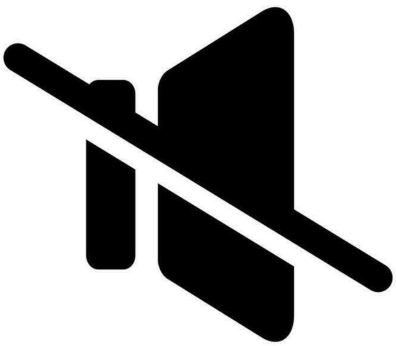
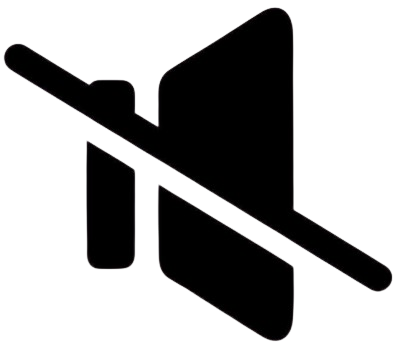
настроен дизайн спидометра

diff --git a/myWay.html b/myWay.html
@@ -30,6 +30,7 @@
         .driveInfo {
             height: calc(40% - 10px);
             background: whitesmoke;
+             position: relative;
             display: flex;
             justify-content: center;
         }
@@ -53,14 +54,12 @@
             box-shadow: 0 2px 10px rgba(0, 0, 0, 0.2);
 
         }
-
-        
     </style>
     <link rel="stylesheet" href="https://unpkg.com/leaflet/dist/leaflet.css">
     <script src="speedometer.js"></script>
 </head>
 
-<body onload='draw(0)' style="margin: 0; padding: 0;" >
+<body onload='draw(0)' style="margin: 0; padding: 0;">
     <div class="map">
         <div id="map"></div>
         <div id="info">
@@ -69,22 +68,24 @@
                     <p>Широта: <span id="latitude"></span></p>
                     <p>Долгота: <span id="longitude"></span></p>
                 </div>
-                <div width="40%">
+                <div width="40%" id ="drive-on-side" style ="visibility: hidden">
                     <img id="drive-on-side-image" src="" alt="Drive on side" style="width: 70px; height: 50px;">
                 </div>
             </div>
-            <p>Название дороги: <span id="road-name-info"></span></p>
+            <p id="road-name" style ="visibility: hidden">Название дороги: <span id="road-name-info"></span></p>
 
-            <p>Класс дороги: <span id="road-class-info"></span></p>
+            <p id = "road-class" style ="visibility: hidden">Класс дороги: <span id="road-class-info"></span></p>
         </div>
     </div>
 
     <div id="divider"></div>
 
     <div class="driveInfo">
-        
-        <canvas id="tutorial" width="440" height="400"></canvas>
-        <button style="border: none; outline: none; background: none;  position: flex; width: 50px; height: 50px;" onclick="editAudio()"><img src="img_velosity/audioOff.png" alt="Edit Audio" id="audio-button" style="width: 130%; height: 100%;"></button>
+
+        <canvas id="tutorial" width="440%" height="400%"></canvas>
+        <button style="border: none; outline: none; background: none; z-index: 10; position: absolute; width: 50px; height: 50px;top: 20px; right: 20px;"
+            onclick="editAudio()"><img src="img_velosity/audioOff.png" alt="Edit Audio" id="audio-button"
+                style="width: 130%; height: 100%;"></button>
 
     </div>
 
@@ -172,8 +173,15 @@
                 latitude = position.coords.latitude;
                 longitude = position.coords.longitude;
 
-                velocity = position.coords.speed;
-                draw(velocity, maxspeed);
+                //velocity = position.coords.speed;
+                //draw(velocity, maxspeed);
+
+                const newPoint = {
+                    latitude: latitude,
+                    longitude: longitude,
+                    time: Date.now()
+                };
+
 
                 direction = position.coords.heading;
                 console.log(`Latitude: ${latitude}, Longitude: ${longitude}, Velocity: ${velocity}, Direction: ${direction}`);
@@ -185,18 +193,23 @@
                 console.log(forLastPosition.length);
 
                 if (forLastPosition.length < 4) {
-                    forLastPosition.push({ latitude, longitude });
+                    forLastPosition.push(newPoint);
                     if (forLastPosition.length === 4) {
                         console.log("4 positions collected, starting action...");
                         startAction();
+                    }
+                    if (forLastPosition.length >= 2) {
+                        console.log("2 positions collected, starting show velocityD...");
+                        getMyVelosity();
                     }
                 }
                 else {
 
                     forLastPosition.shift();
-                    forLastPosition.push({ latitude, longitude });
+                    forLastPosition.push(newPoint);
 
                 }
+
 
             },
             (error) => {
@@ -219,6 +232,39 @@
         marker.setLatLng([lat, lon]);
 
     });
+
+
+    function getMyVelosity() {
+        let lat1 = forLastPosition[forLastPosition.length - 2].latitude;
+        let lon1 = forLastPosition[forLastPosition.length - 2].longitude;
+        let lat2 = forLastPosition[forLastPosition.length - 1].latitude;
+        let lon2 = forLastPosition[forLastPosition.length - 1].longitude;
+
+        let distance = getDistanceFromLatLonInMeters(lat1, lon1, lat2, lon2);
+        let timeDiff = (forLastPosition[forLastPosition.length - 1].time - forLastPosition[forLastPosition.length - 2].time) / 1000; // in seconds
+
+        velocity = distance / timeDiff; //  m/s
+        velocity = velocity * 3.6; // km/h
+        console.log(`v=${velocity}`);
+        draw(velocity, maxspeed);
+    }
+
+    function getDistanceFromLatLonInMeters(lat1, lon1, lat2, lon2) {
+        const R = 6371000; // Radius of the Earth in meters
+        const dLat =
+            (lat2 - lat1) * Math.PI / 180;
+
+        const dLon =
+            (lon2 - lon1) * Math.PI / 180;
+        const a =
+            Math.sin(dLat / 2) ** 2 +
+            Math.cos(lat1 * Math.PI / 180) *
+            Math.cos(lat2 * Math.PI / 180) *
+            Math.sin(dLon / 2) ** 2;
+
+        const c = 2 * Math.atan2(Math.sqrt(a), Math.sqrt(1 - a));
+        return R * c; // Distance in meters
+    }
 
     async function getMaxVelocity() {
         let request = {
@@ -295,26 +341,51 @@
 
 
     function setroadDats(data) {
+        let variantOfTheROadl = 0;
 
         if (data.edges.length > 0) {
+            document.getElementById("road-name").style.visibility = "visible";
 
             let road = data.edges[0];
+            if (!data.edges[variantOfTheROadl].names[0]) {
+                while (!data.edges[variantOfTheROadl].names[0]) {
+                    if (variantOfTheROadl >= data.edges.length - 1) {
+                        variantOfTheROadl = 0;
+                        break;
+                    }
+                    variantOfTheROadl++;
+                }
+                if (variantOfTheROadl != 0) {
+                    document.getElementById("road-name-info").textContent = data.edges[variantOfTheROadl].names[0];
+                }
+                else {
+                    document.getElementById("road-name-info").textContent = "не указано";
+                }
+                document.getElementById("road-name-info").textContent = data.edges[variantOfTheROadl].names[0];
+            }
+            else {
+                document.getElementById("road-name-info").textContent = data.edges[0].names[0];//"не указано";
+            }
 
+            road = data.edges[variantOfTheROadl];
 
             if (road.speed_limit) {
                 //document.getElementById("max-velocity-info").textContent = data.edges[0].speed_limit;
                 maxspeed = road.speed_limit;
             }
             else {
-              //  document.getElementById("max-velocity-info").textContent = "не указано";
+                //  document.getElementById("max-velocity-info").textContent = "не указано";
                 maxspeed = 200;
-                
+
             }
 
-            document.getElementById("road-name-info").textContent = data.edges[0].names[0];
+
+
+
             maxspeed = road.speed_limit;
             draw(velocity, maxspeed); /////////////////////////
 
+            document.getElementById("drive-on-side").style.visibility = "visible";
             switch (road.drive_on_right) {
                 case true:
                     document.getElementById("drive-on-side-image").src = `img_velosity/driveOnTheRight.png`;
@@ -327,7 +398,8 @@
                 //document.getElementById("drive-on-side-image").src = "unknown.png";
             }
 
-
+            
+            document.getElementById("road-class").style.visibility = "visible";
             switch (road.road_class) {
                 case "motorway":
                     document.getElementById("road-class-info").textContent = "Автомагистраль";

diff --git a/speedometer.js b/speedometer.js
@@ -14,7 +14,7 @@ function draw(speed, allowedSpeed1) {
     if (currentSpeed > maxSpeed) { currentSpeed = maxSpeed; }
 
     allowedSpeed = parseFloat(allowedSpeed1);
-    console.log(allowedSpeed1);
+
     if (isNaN(allowedSpeed)) { allowedSpeed = 0; }
     if (allowedSpeed < 0) { allowedSpeed = 0; }
     if (allowedSpeed > maxSpeed) { allowedSpeed = maxSpeed; }
@@ -57,6 +57,7 @@ function drawSpeedometer() {
     ctx.stroke();
 
     // Шкала
+    //console.error("drawScale");
     drawScale(
         centerX,
         centerY,
@@ -64,6 +65,8 @@ function drawSpeedometer() {
         startAngle,
         endAngle
     );
+
+   // сonsole.error("drawNeedle");
 
     // Стрелка
     drawNeedle(
@@ -73,6 +76,8 @@ function drawSpeedometer() {
         startAngle,
         endAngle
     );
+
+    //console.error("drawSpeedometerFill");
 
     // Значение скорости
     ctx.font = "20px Arial";
@@ -156,58 +161,69 @@ function drawScale(
     startAngle,
     endAngle
 ) {
-    for (var i = 0; i <= maxSpeed; i += 10) {
+    //alert("ЭТА ФУНКЦИЯ ЗАПУСТИЛАСЬ");
+    for (var i = 0; i <= maxSpeed; i += 1) {
+
         var angle =
             startAngle +
             (i / maxSpeed) *
             (endAngle - startAngle);
 
-        var outerX =
+
+        let outerRadius = radius - 10;
+        let innerRadius;
+
+        if (i % 10 === 0) {
+            innerRadius = radius - 30;
+        } else {
+            innerRadius = radius - 20;
+        }
+
+
+        let outerX =
             centerX +
-            Math.cos(angle) *
-            (radius - 10);
+            Math.cos(angle) * outerRadius;
 
-        var outerY =
+        let outerY =
             centerY +
-            Math.sin(angle) *
-            (radius - 10);
+            Math.sin(angle) * outerRadius;
 
-        var innerX =
+        let innerX =
             centerX +
-            Math.cos(angle) *
-            (radius - 30);
+            Math.cos(angle) * innerRadius;
 
-        var innerY =
+        let innerY =
             centerY +
-            Math.sin(angle) *
-            (radius - 30);
+            Math.sin(angle) * innerRadius;
 
         // Отметка
         ctx.beginPath();
         ctx.moveTo(innerX, innerY);
         ctx.lineTo(outerX, outerY);
 
-        ctx.lineWidth = 3;
+        ctx.lineWidth = i % 10 === 0 ? 3 : 2;
         ctx.strokeStyle = "white";
         ctx.stroke();
 
-        // Число
-        var textX =
-            centerX +
-            Math.cos(angle) *
-            (radius - 55);
+        if (i % 10 === 0) {
+            // Число
+            var textX =
+                centerX +
+                Math.cos(angle) *
+                (radius - 55);
 
-        var textY =
-            centerY +
-            Math.sin(angle) *
-            (radius - 55);
+            var textY =
+                centerY +
+                Math.sin(angle) *
+                (radius - 55);
 
-        ctx.font = "14px Arial";
-        ctx.fillStyle = "white";
-        ctx.textAlign = "center";
-        ctx.textBaseline = "middle";
+            ctx.font = "14px Arial";
+            ctx.fillStyle = "white";
+            ctx.textAlign = "center";
+            ctx.textBaseline = "middle";
 
-        ctx.fillText(i, textX, textY);
+            ctx.fillText(i, textX, textY);
+        }
     }
 }
 